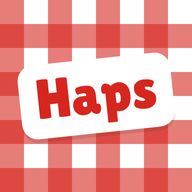
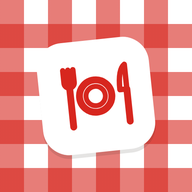
Åbningsskærm: Haps øverst og større kniv og gaffel. Nyt app-ikon med kniv og gaffel
Claude-Session: https://claude.ai/code/session_014tZxavAxdMo3JMvKn77ofr

Changed region(s): [[0.0625, 0.1875, 0.9062, 0.8438]]

diff --git a/index.html b/index.html
@@ -231,8 +231,8 @@ a{color:inherit;text-decoration:none}
   background:repeating-linear-gradient(90deg,rgba(215,38,30,.55) 0 22px,transparent 22px 44px),repeating-linear-gradient(0deg,rgba(215,38,30,.55) 0 22px,#fff 22px 44px);
   background-color:#fff;transition:opacity .45s ease}
 #splash.out{opacity:0;pointer-events:none}
-#splash .st{background:#fff;border-radius:28px;padding:22px 34px 24px;transform:rotate(-4deg);box-shadow:0 10px 0 rgba(42,31,26,.12);display:flex;flex-direction:column;align-items:center;gap:6px;animation:stick .6s cubic-bezier(.2,1.4,.4,1) both}
-#splash svg{width:76px;height:76px;fill:none;stroke:#D7261E;stroke-linecap:round;stroke-linejoin:round}
+#splash .st{background:#fff;border-radius:30px;padding:24px 30px 22px;transform:rotate(-4deg);box-shadow:0 10px 0 rgba(42,31,26,.12);display:flex;flex-direction:column;align-items:center;gap:6px;animation:stick .6s cubic-bezier(.2,1.4,.4,1) both}
+#splash svg{width:128px;height:128px;fill:none;stroke:#D7261E;stroke-linecap:round;stroke-linejoin:round}
 #splash b{font-family:var(--display);font-weight:400;font-size:64px;line-height:1;color:var(--red)}
 @keyframes stick{from{transform:rotate(-14deg) scale(.6);opacity:0}}
 .ptr.anim{transition:height .25s}
@@ -241,7 +241,7 @@ a{color:inherit;text-decoration:none}
 </style>
 </head>
 <body>
-<div id="splash" aria-hidden="true"><div class="st"><svg viewBox="0 0 24 24"><path d="M2.4 3v4M4 3v4M5.6 3v4M2.4 7a1.6 1.6 0 0 0 3.2 0" stroke-width="1.1"/><path d="M4 8.6V21" stroke-width="1.4"/><circle cx="11.9" cy="12" r="5.1" stroke-width="1.4"/><circle cx="11.9" cy="12" r="3.05" stroke-width="1"/><path d="M21.9 3c-1.7 1.1-2.2 4.2-2.2 7.8h2.2z" stroke-width="1.1"/><path d="M21.9 10.8V21" stroke-width="1.4"/></svg><b>Haps</b></div></div>
+<div id="splash" aria-hidden="true"><div class="st"><b>Haps</b><svg viewBox="0 0 24 24"><path d="M2.4 3v4M4 3v4M5.6 3v4M2.4 7a1.6 1.6 0 0 0 3.2 0" stroke-width="1.1"/><path d="M4 8.6V21" stroke-width="1.4"/><circle cx="11.9" cy="12" r="5.1" stroke-width="1.4"/><circle cx="11.9" cy="12" r="3.05" stroke-width="1"/><path d="M21.9 3c-1.7 1.1-2.2 4.2-2.2 7.8h2.2z" stroke-width="1.1"/><path d="M21.9 10.8V21" stroke-width="1.4"/></svg></div></div>
 <div id="app"></div>
 <nav class="tabs" id="tabs" hidden aria-label="Hovedmenu"><div>
   <a class="tab" href="#feed" data-tab="feed"><svg class="icon" viewBox="0 0 24 24"><path d="M3 11l9-7 9 7v9a1 1 0 0 1-1 1h-5v-6H9v6H4a1 1 0 0 1-1-1z"/></svg>Feed</a>

diff --git a/sw.js b/sw.js
@@ -1,6 +1,6 @@
 // Haps – gør appen installerbar og viser push-beskeder.
 // Hæv versionsnummeret, når en ny udgave lægges op, så telefonerne henter den.
-const CACHE = "haps-v3";
+const CACHE = "haps-v4";
 const FILES = [
   "./",
   "./index.html",
